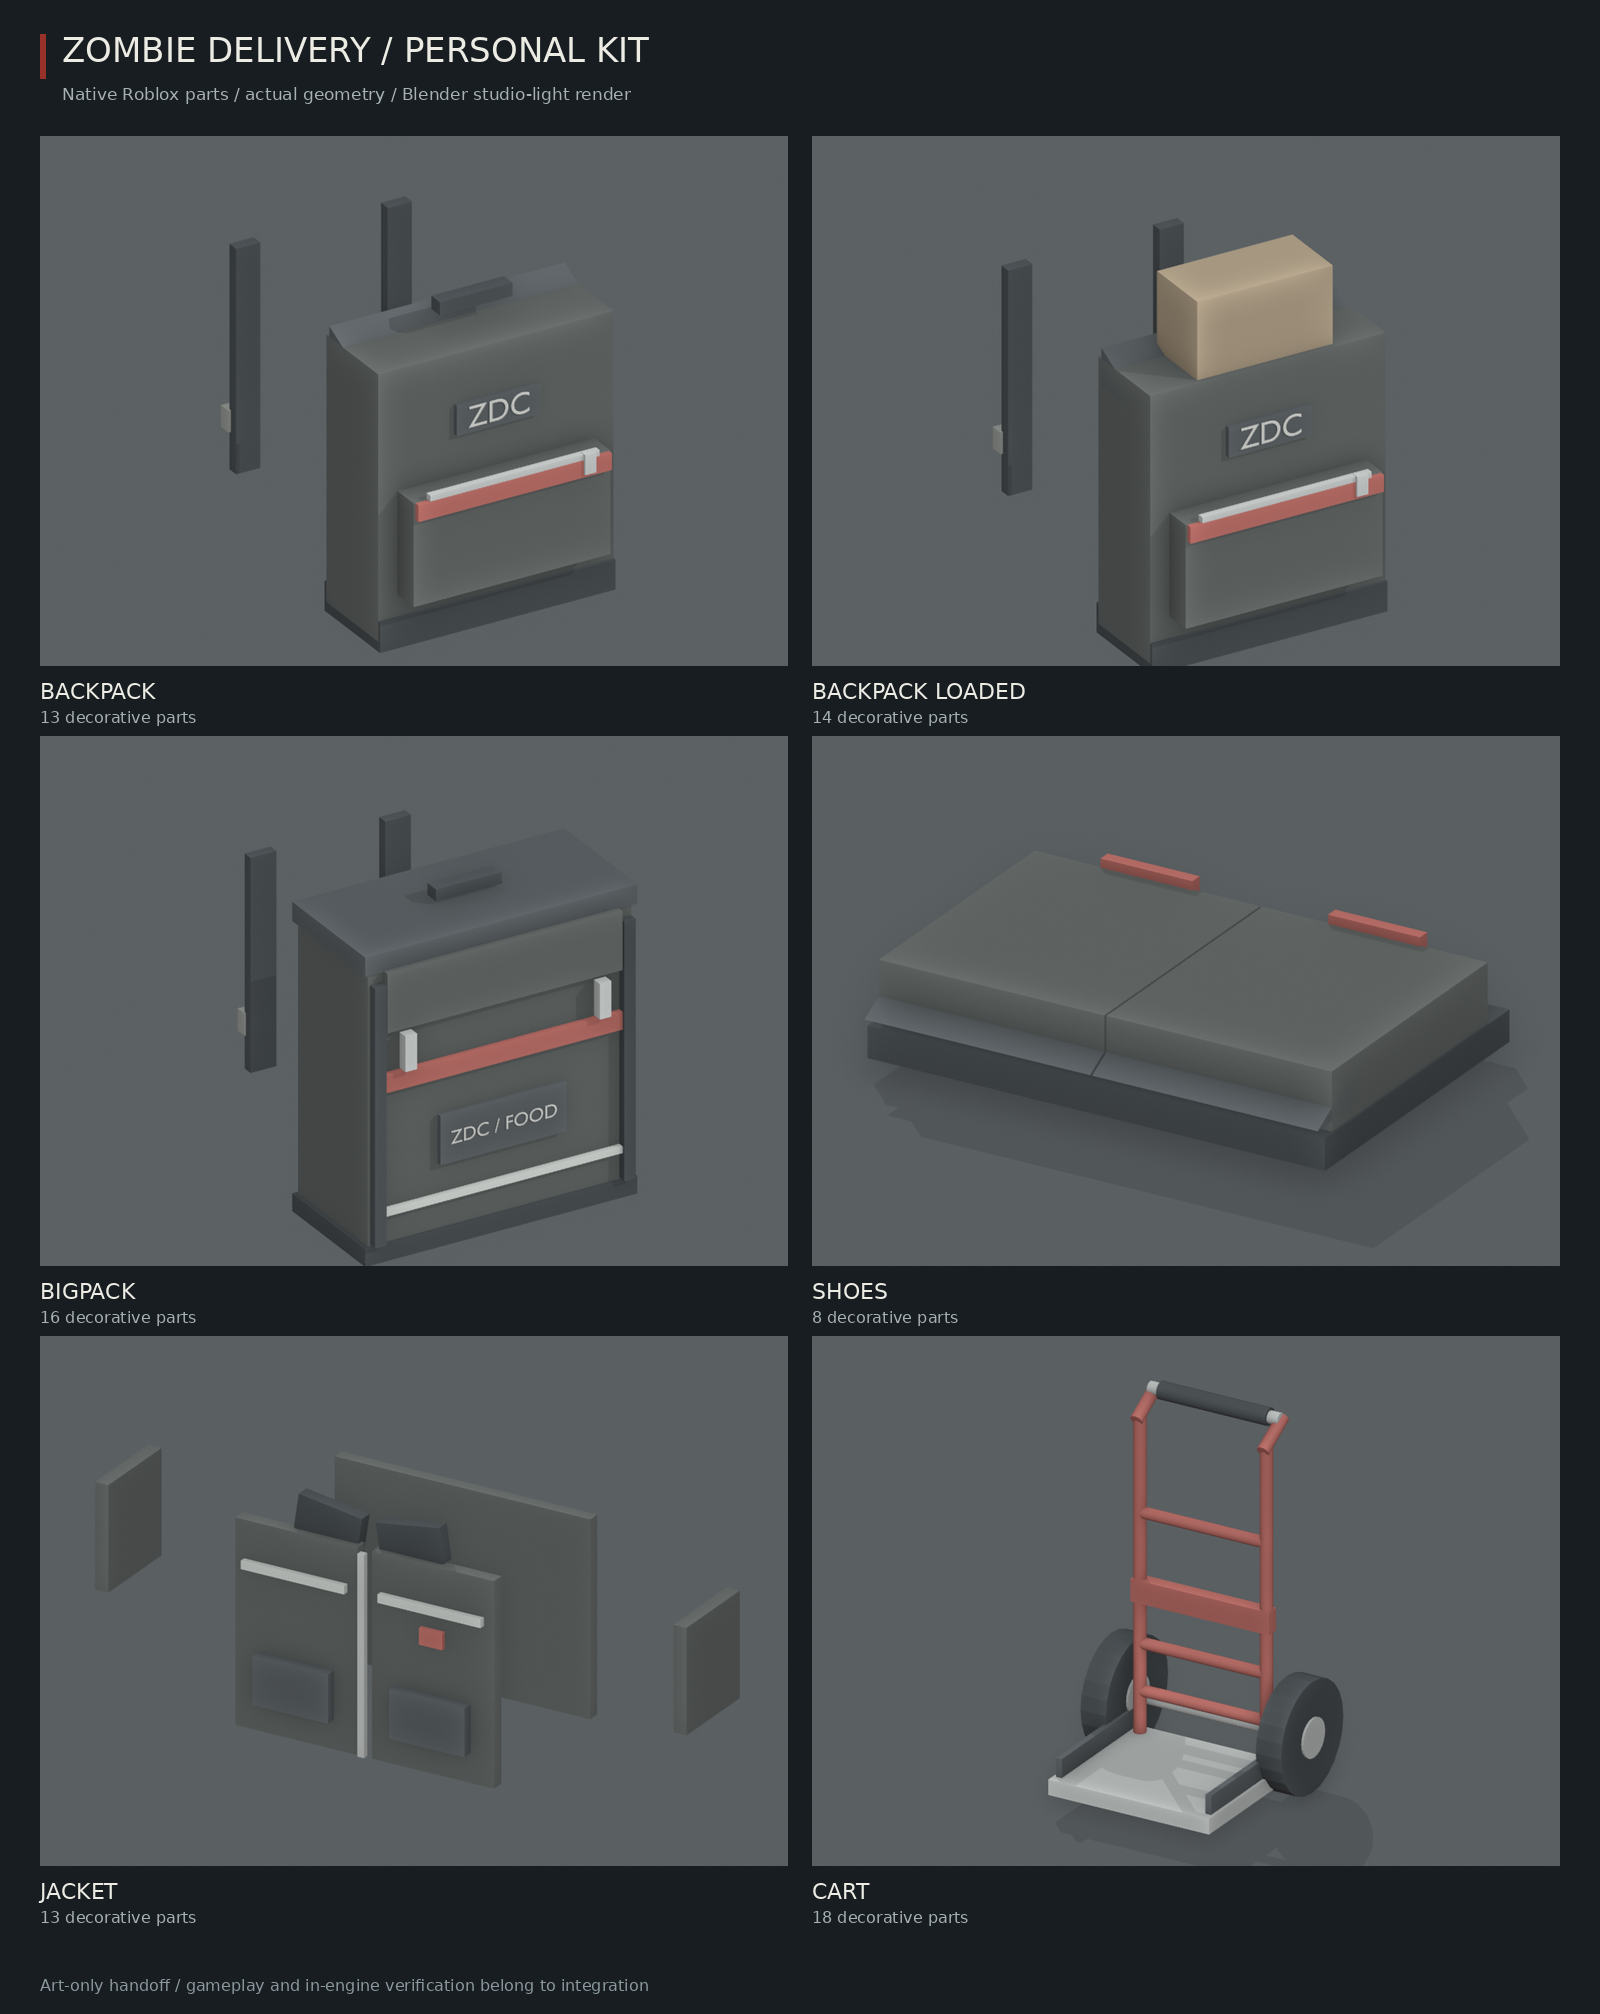
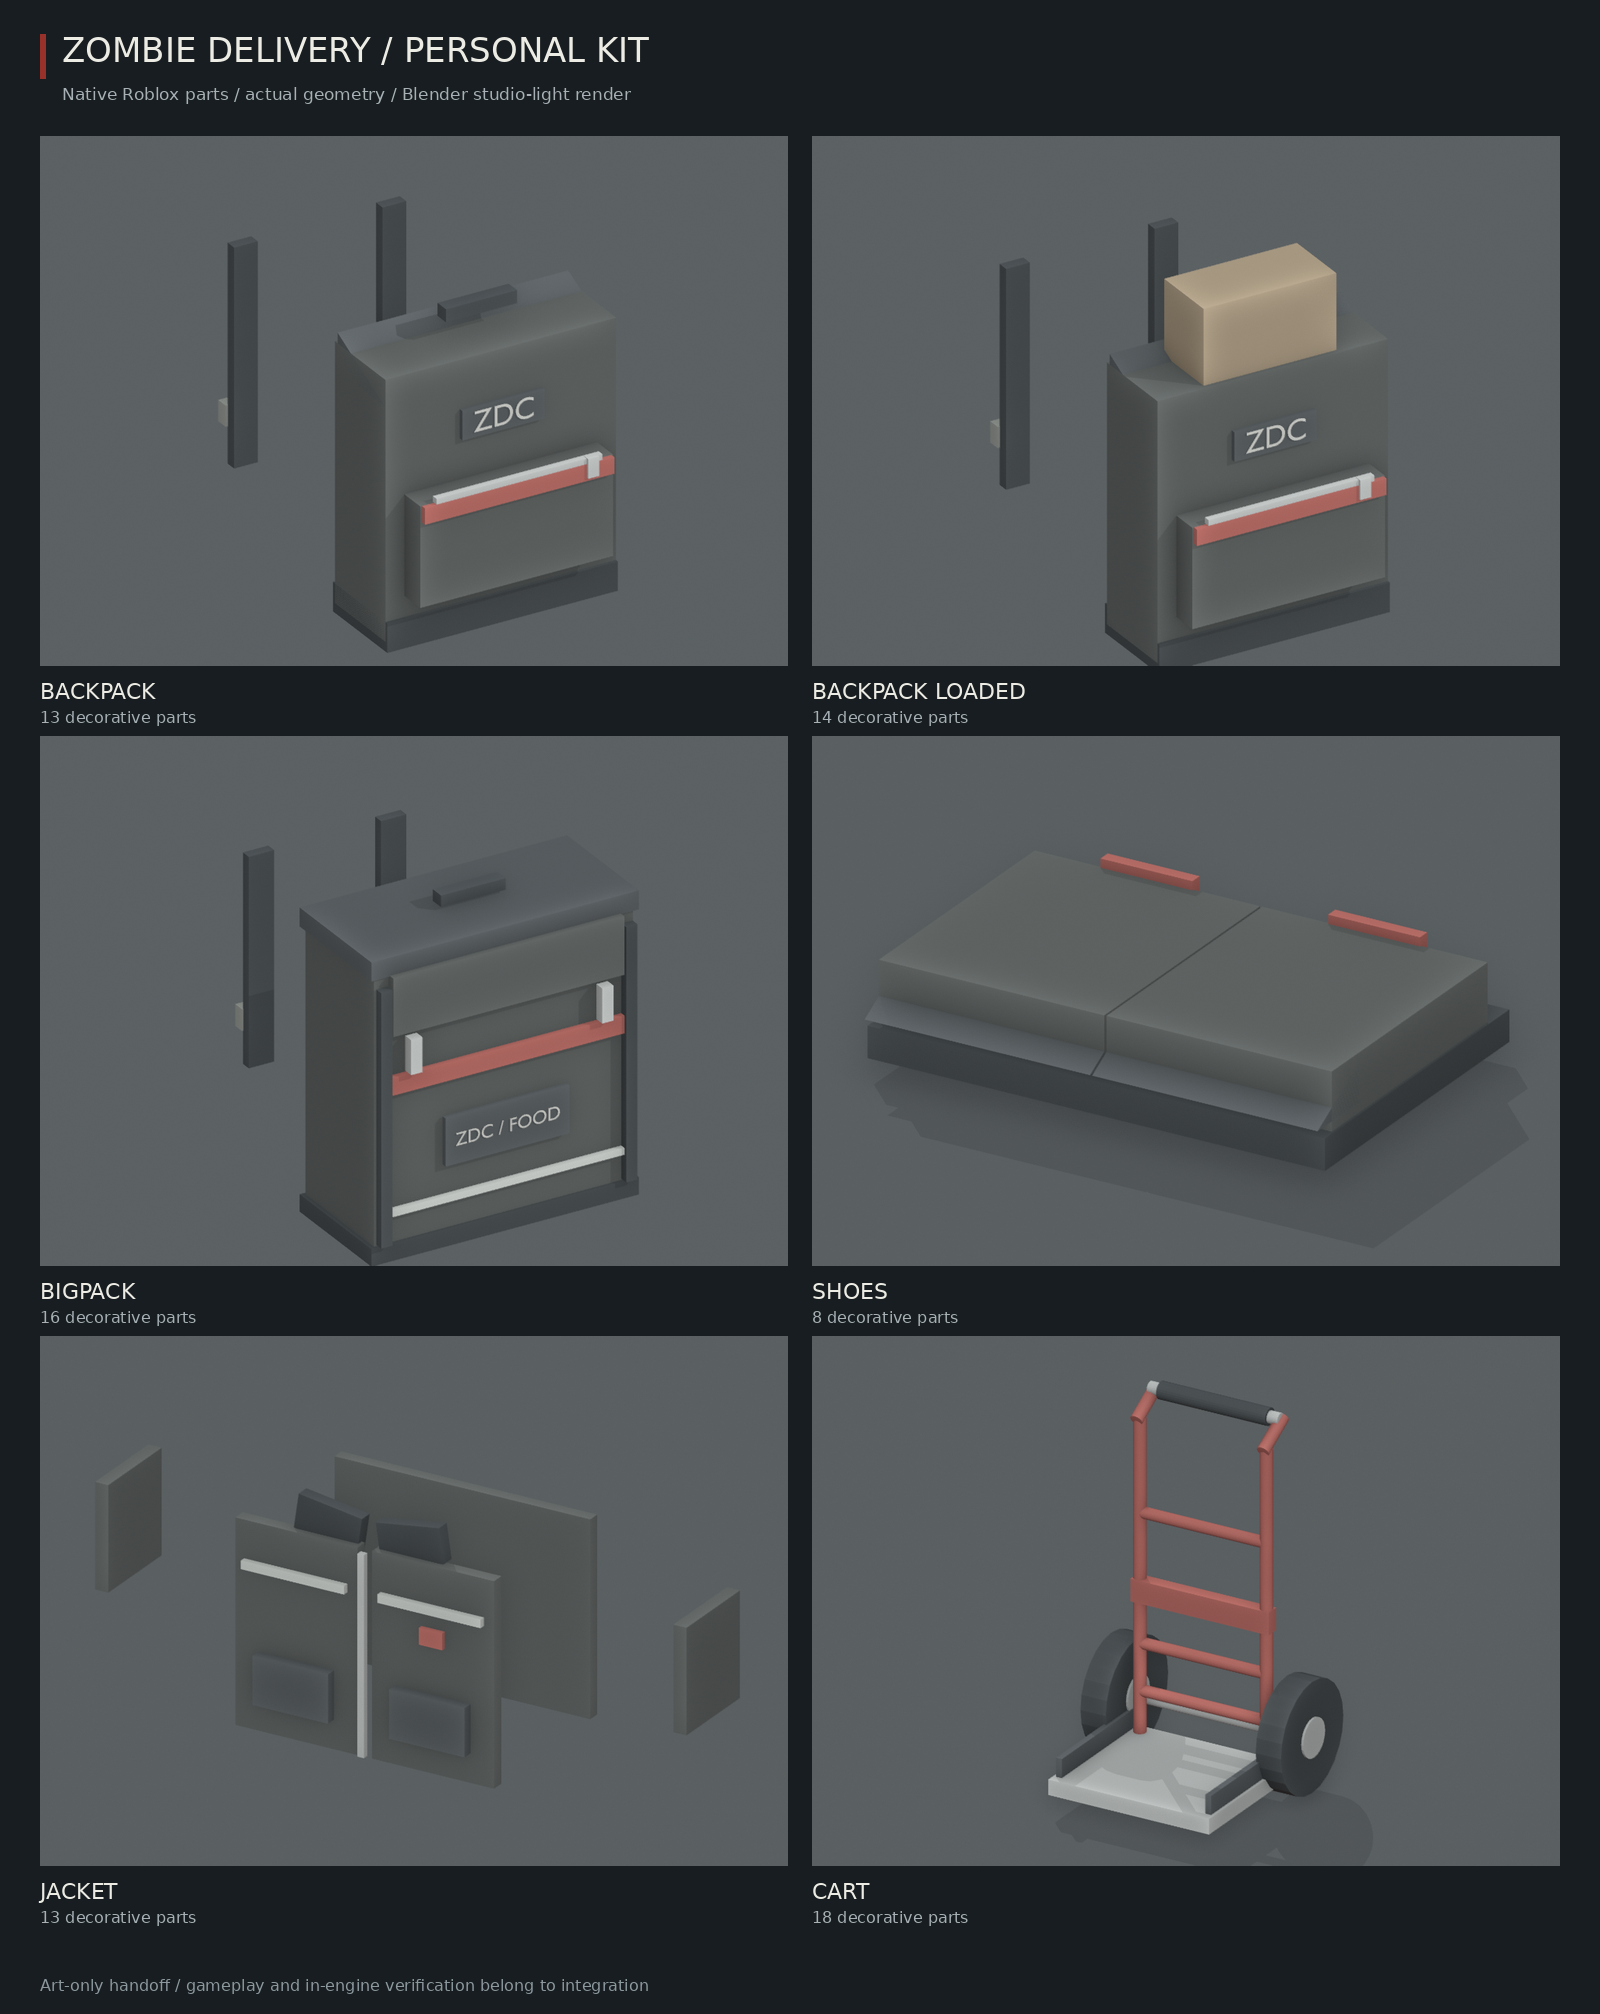
Zombie Delivery 5.x: keep wearable skins unanchored and straps over the vest

diff --git a/zombie-delivery/tools/model-art/export.py b/zombie-delivery/tools/model-art/export.py
@@ -5,7 +5,7 @@ import argparse,json,math,re,subprocess,tempfile
 ROOT=Path(__file__).resolve().parents[2]
 HERE=Path(__file__).parent
 BUDGETS={'backpack':14,'backpack_loaded':14,'bigpack':18,'shoes':12,'jacket':16,'cart':22,'phone':6,
-         'rustbike':70,'citybike':70,'cargobike':70,'ebike':70,'basket':10,'panniers':12,'trailer':25,'bell':3,'light':4,
+         'rustbike':70,'citybike':70,'cargobike':70,'cargobike_loaded':70,'ebike':70,'basket':10,'panniers':12,'trailer':25,'bell':3,'light':4,
          'pump':25,'island':70,'pricesign':12,'jerrycan':8}
 RUNNER='''local Mock=require("./mock")
 local Geometry=require("./Geometry")
@@ -55,6 +55,12 @@ for _,id in Geometry.ids do
  assert(built.model.Parent==nil)
  for _,point in built.points do assert(point.Parent==nil) end
  for _,target in targets do assert(#target:GetChildren()==0) end
+ -- Anchored review roots hold their welded skin; the skin itself must never freeze a later unanchored rig.
+ for _,target in targets do target.Anchored=true end
+ local display=Builder.build(parent,spec,targets)
+ for _,p in display.parts do assert(not p.Anchored) end
+ Builder.destroy(display)
+ for _,target in targets do assert(#target:GetChildren()==0 and target.Anchored) end
  -- A missing target fails before any partial art model is created.
  local before=#parent:GetChildren()
  assert(not pcall(function() Builder.build(parent,spec,{}) end))
@@ -92,12 +98,12 @@ def export(module,luau,output):
             for foot in ['LeftFoot','RightFoot']:assert sum(p['attach']==foot for p in pieces)<=6
         if m['id'] in ['backpack','backpack_loaded','bigpack']:
             for p in pieces:assert abs(p['at'][0])+p['size'][0]/2<=1 and p['at'][1]-p['size'][1]/2>=-1.12,(m['id'],'arm/hip envelope')
-        if m['id'] in ['rustbike','citybike','cargobike','ebike']:
+        if m['id'] in ['rustbike','citybike','cargobike','cargobike_loaded','ebike']:
             named={p['name']:p for p in points}
             assert {'Saddle','LeftGrip','RightGrip','LeftPedal','RightPedal','FrontAxle','RearAxle','CrankAxis','BasketMount','PannierMount','Hitch'}<=named.keys()
             assert sum(p['name'].endswith('Tyre') for p in pieces)==2
             assert all(named[n]['attach']=='Crank' for n in ['LeftPedal','RightPedal'])
-            if m['id']=='cargobike':assert {'Slot'+str(i) for i in range(1,7)}<=named.keys()
+            if m['id'].startswith('cargobike'):assert {'Slot'+str(i) for i in range(1,7)}<=named.keys()
         if m['id'] in ['basket','panniers','trailer']:assert any(p['name']=='Slot1' for p in points)
         if m['id']=='pump':assert any(p['attach']=='Nozzle' for p in pieces) and any(p['name']=='FuelOutlet' for p in points)
     output.parent.mkdir(parents=True,exist_ok=True);output.write_text(json.dumps(models))

diff --git a/zombie-delivery/tools/model-art/README.md b/zombie-delivery/tools/model-art/README.md
@@ -1,6 +1,6 @@
 # Art-only handoff tools
 
-`server/ModelArt/Builder.luau` consumes a spec (`id`, `pieces`, `attachments`) and **caller-owned target BaseParts**. It welds only decorative pieces, adds named Attachment points to their target parts, and returns `{model, parts, points}`. Call `Builder.destroy(result)` when replacing a skin: points live on caller-owned targets, so destroying only the skin model is insufficient. Missing targets/finishes fail before allocation. New pieces inherit each target's anchored state; unanchor caller roots for gameplay after installing the appropriate joints. No joints or physics controllers are supplied here.
+`server/ModelArt/Builder.luau` consumes a spec (`id`, `pieces`, `attachments`) and **caller-owned target BaseParts**. It welds only decorative pieces, adds named Attachment points to their target parts, and returns `{model, parts, points}`. Call `Builder.destroy(result)` when replacing a skin: points live on caller-owned targets, so destroying only the skin model is insufficient. Missing targets/finishes fail before allocation. Skin parts are always unanchored: their welds follow anchored review roots too, without freezing a caller's rig when those roots are later unanchored. No joints or physics controllers are supplied here.
 
 Each group's pure geometry module exports `ids`, `pieces(id)` and `spec(id)`. Specs also carry review-only `origins` (positions of sample target roots), `camera` and `newRoots` (how many new hidden assembly roots integration needs). Runtime art does not use those preview fields. All coordinates are studs; forward is -Z, up +Y. Euler rotations use degrees. Roblox cylinders run along local X; size Y/Z is the circular diameter. `finish` maps to the renderer's restrained materials. `night` sets a `NightLamp` attribute: Claude registers these Parts with DayNight. `textSlot` creates a named TextLabel inside the part's `ArtLabel` SurfaceGui for dynamic text.
 

diff --git a/zombie-delivery/COLLAB.md b/zombie-delivery/COLLAB.md
@@ -7,7 +7,7 @@ The rules are in `AGENTS.md`. Keep this file short: one line per task, newest on
 
 ## Ready for review
 <!-- Codex: branch · what changed · what to test in Studio -->
-- Codex · `codex/kit-models` · 5.x backpacks (13/14 loaded, bigpack 16), shoes (4/foot), jacket (13), cart (21 including roots), pure `KitArt/Geometry`, reusable `ModelArt/Builder`, 5 PNG/SVG kit icons; actual renders + handoff in `design/kit-models/`. Required suite/compiles and real-builder budget/weld/cleanup/icon checks pass. Studio: R15 scaling, carry/sit poses, vest/pack layering, shoes, cart grips/deck/wheels; art only, Claude wires gameplay.
+- Codex · `codex/kit-models` · 5.x backpacks (13/14 loaded, bigpack 16), shoes (4/foot), jacket (13), cart (21 including roots), pure `KitArt/Geometry`, reusable `ModelArt/Builder`, 5 PNG/SVG kit icons; actual renders + handoff in `design/kit-models/`. Required suite/compiles and real-builder budget/weld/cleanup/icon checks pass, including unanchored skins on display roots; straps clear the vest. Studio: R15 scaling, carry/sit poses, vest/pack layering, shoes, cart grips/deck/wheels; art only, Claude wires gameplay.
 
 ## Questions / handoff
 <!-- notes for the other helper: bugs seen, ideas, "please check X" -->
